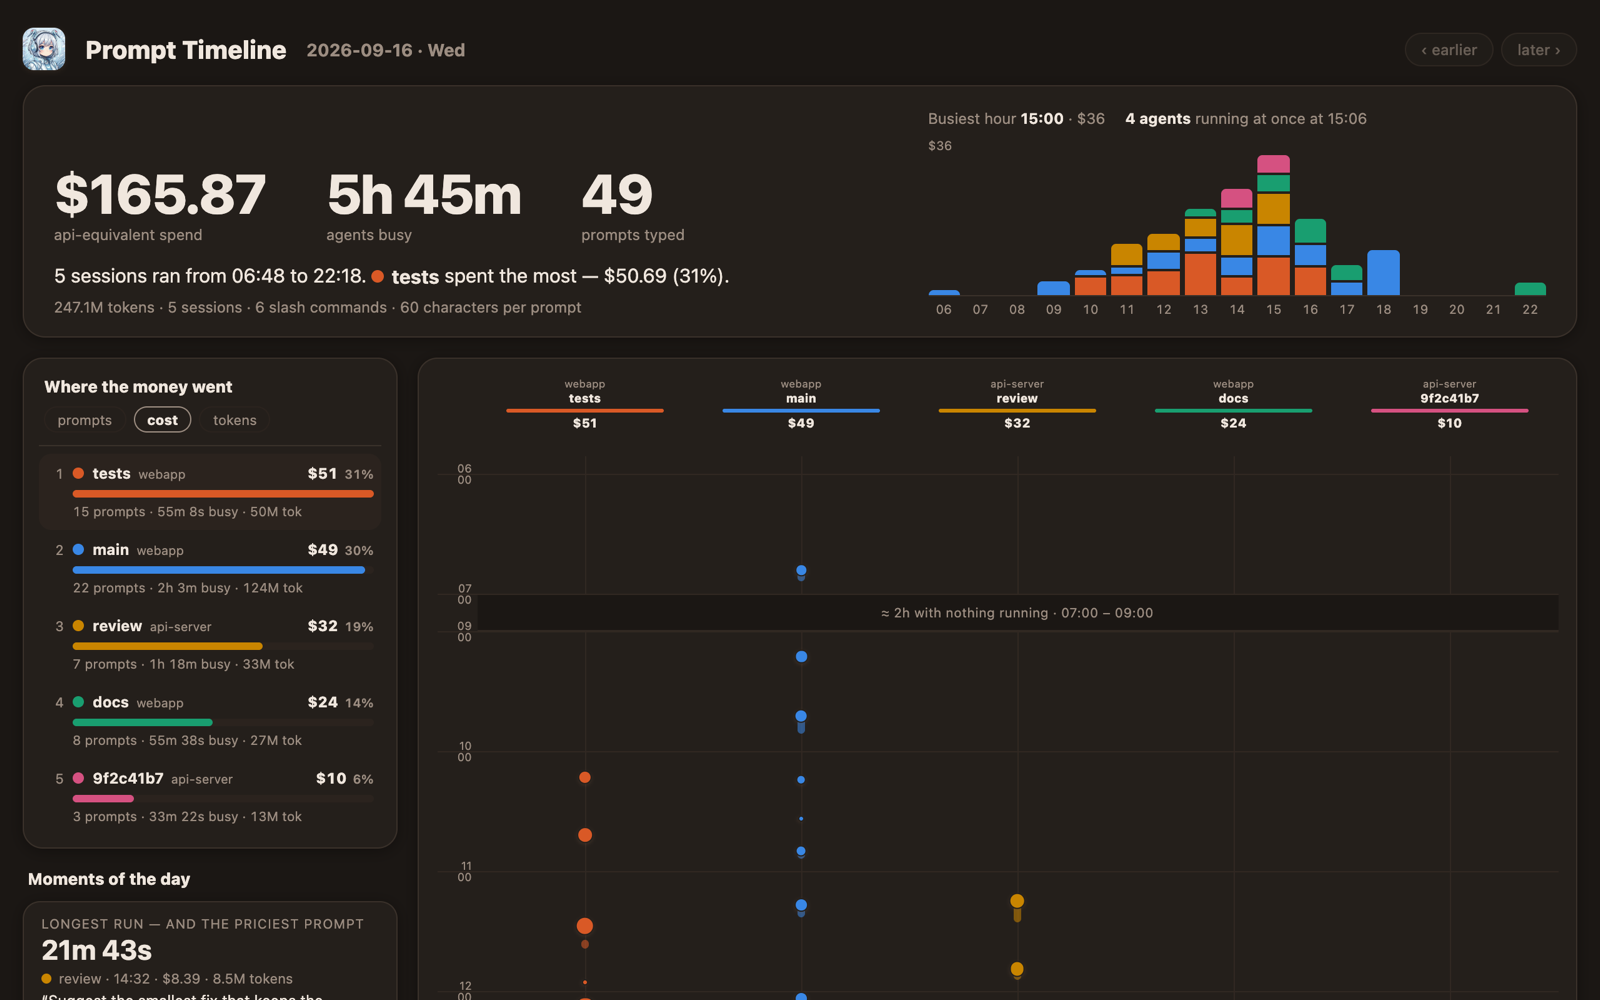
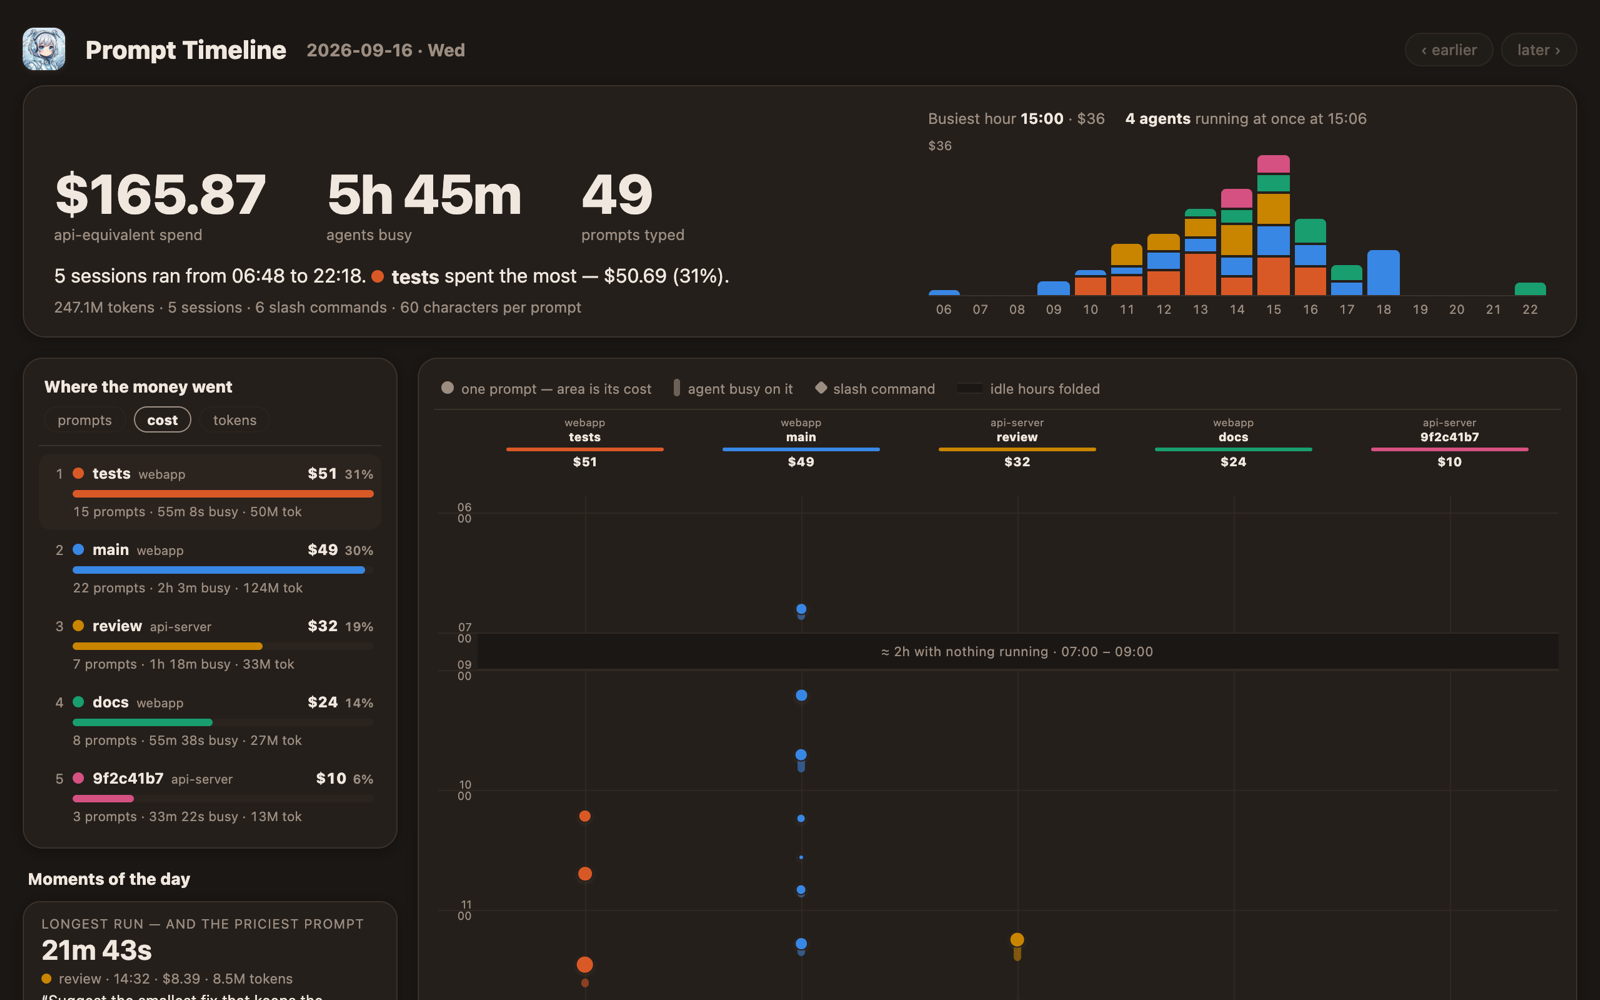
feat: name every mark on the plot in its own shape (#20)
The plot uses four encodings — a dot's area is that prompt's cost or tokens, the line
under it is how long the agent stayed busy, a diamond is a slash command, a band is folded
idle hours — and none was explained on the page. The footer described clicks, not marks,
and sat below a page-long plot, so someone arriving from a screenshot had to guess.

A one-line key now heads the timeline panel, drawn with the marks it names. It follows
size-by ("area is its tokens", or just "one prompt" with no size claim) and only lists a
diamond or a fold on days that have one. The README screenshots are re-shot to include it.

Closes #19

diff --git a/view/timeline.js b/view/timeline.js
@@ -321,6 +321,18 @@
     };
 
     var panel = el("div", "pt-panel", main);
+
+    // 記号の読み方。説明する記号そのものの形で書く。その日に無い記号は載せない。
+    var key = el("div", "pt-key", panel);
+    function keyItem(cls, text) {
+      var it = el("span", "pt-k", key);
+      el("i", cls, it);
+      it.appendChild(document.createTextNode(text));
+    }
+    keyItem("pt-k-dot", metric ? "one prompt — area is its " + metric.label : "one prompt");
+    if (rows.some(function (r) { return (r.spans || []).length; })) keyItem("pt-k-busy", "agent busy on it");
+    if (rows.some(function (r) { return r.kind === "slash"; })) keyItem("pt-k-slash", "slash command");
+    if (segs.some(function (sg) { return sg.fold; })) keyItem("pt-k-fold", "idle hours folded");
     var scroll = el("div", "pt-scroll", panel);
     var plot = el("div", "pt-plot", scroll);
     plot.style.width = width + "px";

diff --git a/view/timeline.css b/view/timeline.css
@@ -199,3 +199,13 @@ a.pt-day:hover{border-color:var(--sub)}
 .pt-day.off{color:var(--sub);font-weight:500;opacity:.6}
 .pt-fig em{display:block;margin-top:2px;font-style:normal;font-size:11.5px;color:var(--ink);opacity:.72;
   font-variant-numeric:tabular-nums}
+
+/* ---- how to read the marks ---- */
+.pt-key{display:flex;flex-wrap:wrap;gap:4px 18px;padding:2px 6px 10px;margin-bottom:4px;
+  border-bottom:1px solid var(--line);font-size:11px;color:var(--sub)}
+.pt-k{display:inline-flex;align-items:center;gap:6px}
+.pt-k i{flex:none;display:inline-block;background:var(--sub)}
+.pt-k-dot{width:10px;height:10px;border-radius:50%}
+.pt-k-busy{width:5px;height:14px;border-radius:3px;opacity:.6}
+.pt-k-slash{width:8px;height:8px;border-radius:2px;transform:rotate(45deg)}
+.pt-k i.pt-k-fold{width:20px;height:9px;background:var(--bg);border-top:1px solid var(--grid);border-bottom:1px solid var(--grid)}
